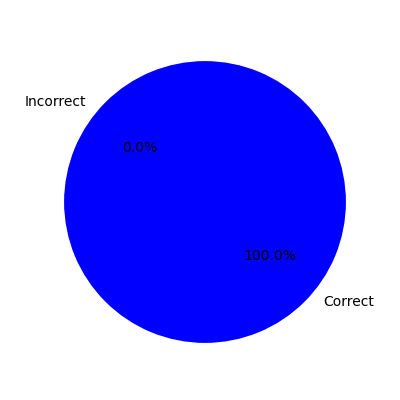
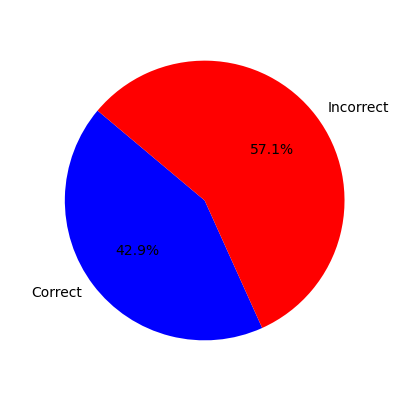
make the quiz actually work

diff --git a/html/jquiz.html b/html/jquiz.html
@@ -16,10 +16,10 @@
 
     <section id="aquiz">
       <h1>Java Quiz</h1>
-      <form action="../Python/quizstatistics.py" method="post" class="quiz-form">
-        
+      <form action="../Python/quiz.py" method="post" class="quiz-form">
         <div class="subsection">
           <p><strong>1. What does JVM stand for?</strong></p>
+          <input type="hidden" id="quizTopic" name="quizTopic" value="Java">
           <label><input type="radio" name="q1" value="A" required> Java Virtual Machine</label><br>
           <label><input type="radio" name="q1" value="B"> Java Visual Mode</label><br>
           <label><input type="radio" name="q1" value="C"> Joint Variable Map</label><br>

diff --git a/Python/quiz.py b/Python/quiz.py
@@ -30,13 +30,13 @@ def print_html_footer():
     """)
 
 def get_answer_key(topic):
-    file_path = 'output.csv'
+    file_path = '../output.csv'
     with open(file_path, 'r', newline='') as csvfile:
         reader = csv.reader(csvfile)
         header = next(reader) 
         for row in reader:
             if row[0].strip().lower() == topic.strip().lower():
-                return row[1:]
+                return row[1:] #return everything BESIDES the topic name 
     print(f"<p>Error: data for {topic} not in CSV</p>")
     return None
 
@@ -53,10 +53,12 @@ def quiz():
 
     response_data = []
     for i in range(len(answer_key)):
-        answer = form.getvalue("r" + str(i+1))
+        answer = form.getvalue("q" + str(i+1))
         response_data.append(answer)
 
     counter = sum(1 for i in range(len(answer_key)) if answer_key[i] == response_data[i])
+    
+    
     
     print(f"<h2>Quiz Language: {topic}</h2>")
     print(f"<p>You got {counter} out of {len(answer_key)} correct.</p>")
@@ -70,11 +72,11 @@ def quiz():
     plt.axis('equal') 
 
     
-    chart_path = "../images/quiz_result.png"
+    chart_path = "/home/students/odd/2027/awang70/public_html/feetcode/images/quiz_result.png"
     plt.savefig(chart_path)
     plt.close()
 
-    print('<img src="../images/quiz_result.png" alt="Quiz Result Chart" width="300"/>')
+    print('<img src="/~awang70/feetcode/images/quiz_result.png" alt="Quiz Result Chart" width="300"/>')
 
 
 

diff --git a/Python/quizstatistics.py b/Python/quizstatistics.py
@@ -19,7 +19,7 @@ def addData(list1):
     with open(file_path, 'a', newline='') as csvfile:
         csv_writer = csv.writer(csvfile)
 
-        if len(list1) != 6:
+        if len(list1) != 8:
             print(f"Error, list length {len(list1)} is incorrect")
             return None
 
